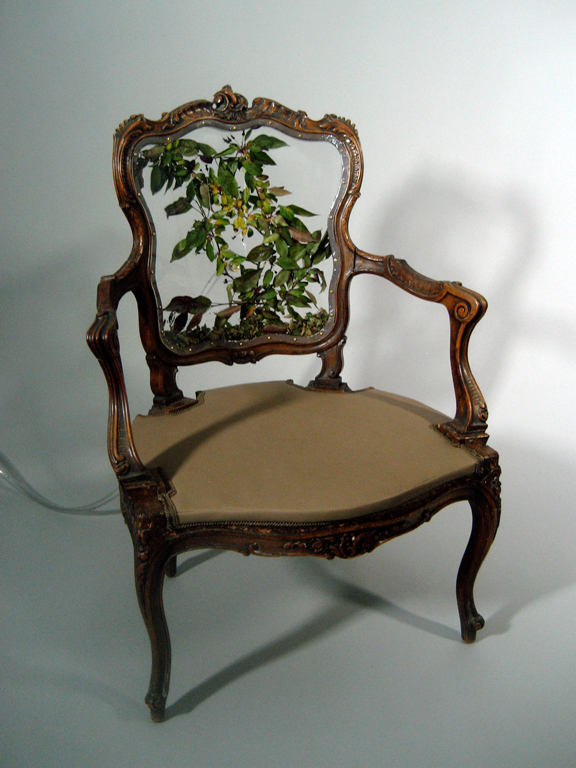
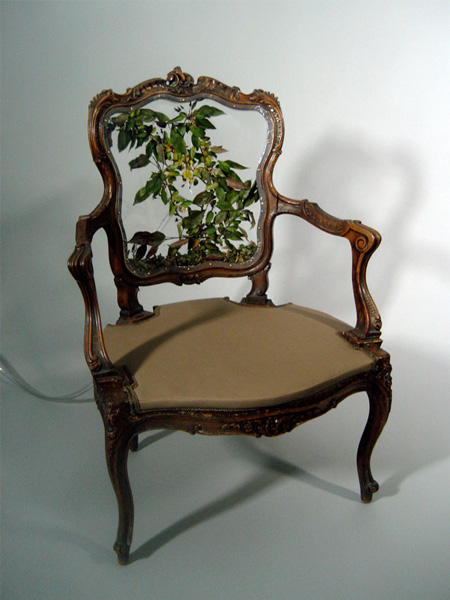
aml images and carosole added. issues with carosole

diff --git a/app/landscape/landscape_templates/aml.html b/app/landscape/landscape_templates/aml.html
@@ -1,63 +1,44 @@
 {% extends 'base.html' %}
 {% block content %}
 
-<div class="container d-flex flex-column mb-4 view-width-70">
-  <h1 class="text-center mt-4"> Analog Media Lab</h1>
+<div class="container d-flex flex-column mb-4">
+  <h1 class="text-center mt-4">Analog Media Lab</h1>
   <hr>
-  <div id="carouselExampleCaptions" class="carousel slide carousel-fade align-self-center" data-bs-ride="carousel">
-    <div class="carousel-indicators">
-      <button type="button" data-bs-target="#carouselExampleCaptions" data-bs-slide-to="0" class="active" aria-current="true" aria-label="Slide 1"></button>
-      <button type="button" data-bs-target="#carouselExampleCaptions" data-bs-slide-to="1" aria-label="Slide 2"></button>
-      <button type="button" data-bs-target="#carouselExampleCaptions" data-bs-slide-to="2" aria-label="Slide 3"></button>
-      <button type="button" data-bs-target="#carouselExampleCaptions" data-bs-slide-to="3" aria-label="Slide 4"></button>
-    </div>
-    <div class="carousel-inner previewer-frame">
+
+  <p class="mt-3 col-7 align-self-center"><a href="https://cargocollective.com/analogmedialab" target="_blank">Analog Media Lab</a> was an experimental design collaborative, formed in 2009 with Professor David L. Hays and Shuangshuang Wu, 
+    in an attempt to explore the unexpected and compelling properties of natural materials in design.</p>
+  
+  
+  <div id="carouselExampleControls" class="carousel slide align-self-center" data-bs-ride="carousel">
+    <div class="carousel-inner">
       <div class="carousel-item active">
-        <img src="../../static/images/zna_1.JPG" class="d-block w-100" alt="ZNA Bird's Eye">
-        <p class="carousel-attribution">#</p>
-        <div class="carousel-caption d-none d-md-block">
-          <h5>Zurich Insurance North America</h5>
-          <!-- <p>Some representative placeholder content for the first slide.</p> -->
-        </div>
+        <img src="../../static/images/aml_rococo_arm_chair.jpg" class="d-block w-100" alt="...">
       </div>
       <div class="carousel-item">
-        <img src="../../static/images/zna_4.JPG" class="d-block w-100" alt="ZNA Architecture Image">
-        <p class="carousel-attribution">#</p>
-        <div class="carousel-caption d-none d-md-block">
-          <!-- <h5>Goettsch Building</h5> -->
-          <h5>Architecture prior to integrating the landscape design</h5>
-        </div>
+        <img src="../../static/images/aml_rococo_arm_chair_section.jpg" class="d-block w-100" alt="...">
       </div>
       <div class="carousel-item">
-        <img src="../../static/images/zna_2.JPG" class="d-block w-100" alt="ZNA Courtyard Perspective 1">
-        <p class="carousel-attribution">#</p>
-        <div class="carousel-caption d-none d-md-block">
-          <!-- <h5>Second slide label</h5> -->
-          <h5>Inner employee courtyard, lower level.</h5>
-        </div>
+        <img src="../../static/images/aml_honey_window_0.jpg" class="d-block w-100" alt="...">
       </div>
       <div class="carousel-item">
-        <img src="../../static/images/zna_3.JPG" class="d-block w-100" alt="ZNA Courtyard Perspective 2">
-        <p class="carousel-attribution">#</p>
-        <div class="carousel-caption d-none d-md-block">
-          <!-- <h5>Third slide label</h5> -->
-          <h5>Inner employee courtyard at ADA path</h5>
-        </div>
+        <img src="../../static/images/aml_honey_window_1.jpg" class="d-block w-100" alt="...">
+      </div>
+      <div class="carousel-item">
+        <img src="../../static/images/aml_termites.jpg" class="d-block w-100" alt="...">
+      </div>
+      <div class="carousel-item">
+        <img src="../../static/images/aml_waterfall.jpg" class="d-block w-100" alt="...">
       </div>
     </div>
-    <button class="carousel-control-prev" type="button" data-bs-target="#carouselExampleCaptions" data-bs-slide="prev">
-        <span class="carousel-control-prev-icon" aria-hidden="true"></span>
-        <span class="visually-hidden">Previous</span>
+    <button class="carousel-control-prev" type="button" data-bs-target="#carouselExampleControls" data-bs-slide="prev">
+      <span class="carousel-control-prev-icon" aria-hidden="true"></span>
+      <span class="visually-hidden">Previous</span>
     </button>
-    <button class="carousel-control-next" type="button" data-bs-target="#carouselExampleCaptions" data-bs-slide="next">
-        <span class="carousel-control-next-icon" aria-hidden="true"></span>
-        <span class="visually-hidden">Next</span>
+    <button class="carousel-control-next" type="button" data-bs-target="#carouselExampleControls" data-bs-slide="next">
+      <span class="carousel-control-next-icon" aria-hidden="true"></span>
+      <span class="visually-hidden">Next</span>
     </button>
-</div>
-<br>
-  <p>
-      A collaborative de
-  </p>
+  </div>
 </div>
 
 {% endblock content %}

diff --git a/app/landscape/landscape_templates/zna.html b/app/landscape/landscape_templates/zna.html
@@ -4,6 +4,7 @@
 <div class="container d-flex flex-column mb-4 view-width-70">
   <h1 class="text-center mt-4"> Zurich Insurance North America</h1>
   <hr>
+
   <div id="carouselExampleCaptions" class="carousel slide carousel-fade align-self-center" data-bs-ride="carousel">
     <div class="carousel-indicators">
       <button type="button" data-bs-target="#carouselExampleCaptions" data-bs-slide-to="0" class="active" aria-current="true" aria-label="Slide 1"></button>
@@ -120,22 +121,26 @@
     </button>
 </div>
 <br>
-  <p>
-      Working with Goettsch Partners and St. Louis based developer Clayco,
-      the new campus headquarters for Zurich Insurance North America
-      was the largest project I contributed to while working at Hoerr Schaudt. I was
-      involved at every stage of the project, from schematic design through
-      late construction documents. It was my first experience with corperate campus
-      design, and thoroughly introduced me to the design development and
-      construction drawing process. 
-  </p>
-  <div class="graphic align-self-center">
-    <img src="../../static/images/zna_plan_graphic.JPG" alt="Zurich Campus Plan Graphic" class="d-block w-100">
-    <div class="graphic-attribution-left">Created while working at HSLA</div>
-  </div>
-  <p>In keeping with the LEED platinum building design, most of the landscape is native prairie grassland, with water
-    features that collect and reuse on-site runoff. Project completion was achieved during Fall 2016.
-  </p>
+
+<p class="align-self-center col-10">
+  Working with Goettsch Partners and St. Louis based developer Clayco,
+  the new campus headquarters for Zurich Insurance North America
+  was the largest project I contributed to while working at Hoerr Schaudt. I was
+  involved at every stage of the project, from schematic design through
+  late construction documents. It was my first experience with corperate campus
+  design, and thoroughly introduced me to the design development and
+  construction drawing process. 
+</p>
+
+<div class="graphic align-self-center">
+  <img src="../../static/images/zna_plan_graphic.JPG" alt="Zurich Campus Plan Graphic" class="d-block w-100">
+  <div class="graphic-attribution-left">Created while working at HSLA</div>
+</div>
+
+<p class="align-self-center col-10">In keeping with the LEED platinum building design, most of the landscape is native prairie grassland, with water
+  features that collect and reuse on-site runoff. Project completion was achieved during Fall 2016.
+</p>
+
 </div>
 
 {% endblock content %}

diff --git a/app/static/css/main.css b/app/static/css/main.css
@@ -20,6 +20,10 @@ body{
     background-image: linear-gradient(to bottom right, lightblue, white);
     /* background-color: lightblue; */
 }
+a{
+    text-decoration: none;
+    color: rgb(85, 85, 245);
+}
 .widthLimit{
     max-width: 900px;
 }
@@ -162,7 +166,7 @@ a.nav-link:hover{
 /* CONTACT end */
 
 
-/* PROJECTS start */
+/* PROJECT CARDS start */
 .card-img-top{
     height: 350px;
     width: auto;
@@ -177,18 +181,33 @@ a.nav-link:hover{
     color: white;
 }
 .card:hover{
-    transform: scale(1.01);
+    /* transform: scale(1.01); */
     box-shadow: 0 10px 20px rgba(0,0,0,.12), 0 4px 8px rgba(0,0,0,.06);
     opacity: 1;
+    /* border: 3px solid white; */
 }
+
+/* .comming-soon{
+    z-index: 0;
+    margin-bottom: -12px;
+    background-color:rgba(255, 255, 255,0.5);
+    color:#ffffff;
+}
+.comming-soon > h5, p{
+    opacity: 0.5;
+} */
+
+
+
+
 .projectLink{
     display: flex;
     justify-content: center;
 }
 /* CAROUSEL CUSTOMIZATIONS */
-.carousel{
+/* .carousel{
     max-width: 80%;
-}
+} */
 .black{
     color: black;
 }
@@ -218,7 +237,7 @@ a.nav-link:hover{
 }
 .graphic > img{
     /* border-radius: 10px; */
-    max-width: 50vw;
+    max-width: 60vw;
 }
 .graphic-attribution-left{
     position: absolute;

diff --git a/app/site/site_templates/landscape_projects.html b/app/site/site_templates/landscape_projects.html
@@ -57,12 +57,12 @@
       </div>
   </div>
 
-  <!-- <div class="card bg-light text-white" style="width: 18rem; height: 16rem;">
-    <a href="{{ url_for('site.home') }}">
-      <img src="../../static/images/qua_1.JPG" class="card-img" alt="...">
-      <div class="card-img-overlay">
-        <h5 class="card-title" style="color: black;">Buraidah Mall</h5>
-        <p class="card-text" style="color: black;">Landuse plan and shopping mall layout in Saudi Arabia</p>
+  <!-- <div class="card bg-light " style="width: 18rem; height: 16rem;" >
+    <a href="{{ url_for('site.home') }}" class="">
+      <img src="../../static/images/qua_1.JPG" class="card-img" alt="..." >
+      <div class="card-img-overlay comming-soon">
+        <h5 class="card-title text-black" >Buraidah Mall</h5>
+        <p class="card-text text-black" >Landuse plan and shopping mall layout in Saudi Arabia</p>
       </div>
     </a>
   </div> -->

diff --git a/app/templates/base.html b/app/templates/base.html
@@ -89,5 +89,6 @@
 
 <script src="https://cdnjs.cloudflare.com/ajax/libs/popper.js/2.9.2/umd/popper.min.js"></script>
 <script src="https://cdnjs.cloudflare.com/ajax/libs/twitter-bootstrap/5.1.0/js/bootstrap.min.js"></script>
+<script src="../static/js/main.js"></script>
 </body>
 </html>
